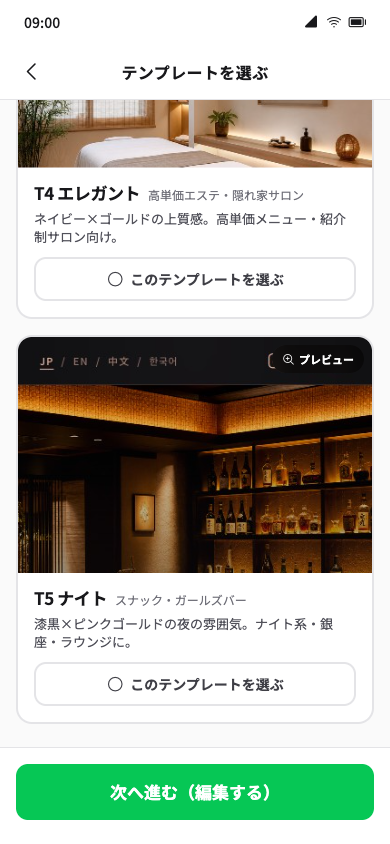
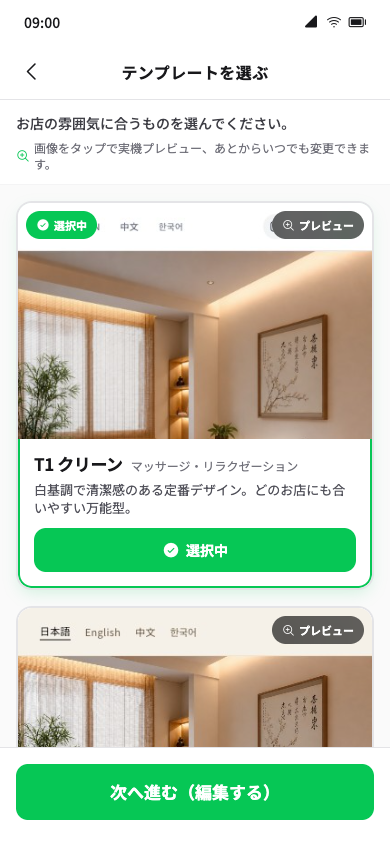
fix(admin01): 「選択中」バッジ・選択中ボタンのCSS修正
- バッジが column 縦積みで矩形からはみ出す問題を修正
  * .template-card__check-selected の flex-direction:column を削除
  * display:inline-flex + gap:4px に統一し、アイコン+テキストを横並び＆上下センタリング
- 選択中ボタンのラベル content が常に「このテンプレートを選ぶ」のままだったバグを修正
  * CSS 優先順位の順序を修正し、selected 時に「選択中」へ切替

diff --git a/shop-page/admin/01_template-select.html b/shop-page/admin/01_template-select.html
@@ -25,14 +25,14 @@
         .touch-active { transition: transform 0.1s cubic-bezier(0.4, 0, 0.2, 1), opacity 0.1s ease; }
         .touch-active:active { transform: scale(0.98); opacity: 0.6; }
         .template-card { transition: all 0.2s ease; }
-        .template-card__check-selected { display: none; flex-direction: column; align-items: center; justify-content: center; }
-        .template-card__check-empty { display: flex; align-items: center; justify-content: center; }
+        .template-card__check-selected { display: none; align-items: center; justify-content: center; gap: 4px; }
+        .template-card__check-empty { display: inline-flex; align-items: center; justify-content: center; }
         .template-card--selected { border-color: #06C755; box-shadow: 0 0 0 2px #06C755 inset, 0 6px 16px -4px rgba(6, 199, 85, 0.18); }
-        .template-card--selected .template-card__check-selected { display: flex; }
+        .template-card--selected .template-card__check-selected { display: inline-flex; }
         .template-card--selected .template-card__check-empty { display: none; }
+        .template-card__select-btn-label::before { content: 'このテンプレートを選ぶ'; }
         .template-card--selected .template-card__select-btn { background-color: #06C755; color: white; border-color: #06C755; }
         .template-card--selected .template-card__select-btn-label::before { content: '選択中'; }
-        .template-card .template-card__select-btn-label::before { content: 'このテンプレートを選ぶ'; }
         /* Preview modal */
         .preview-modal { display: none; }
         .preview-modal[open] { display: flex; }
